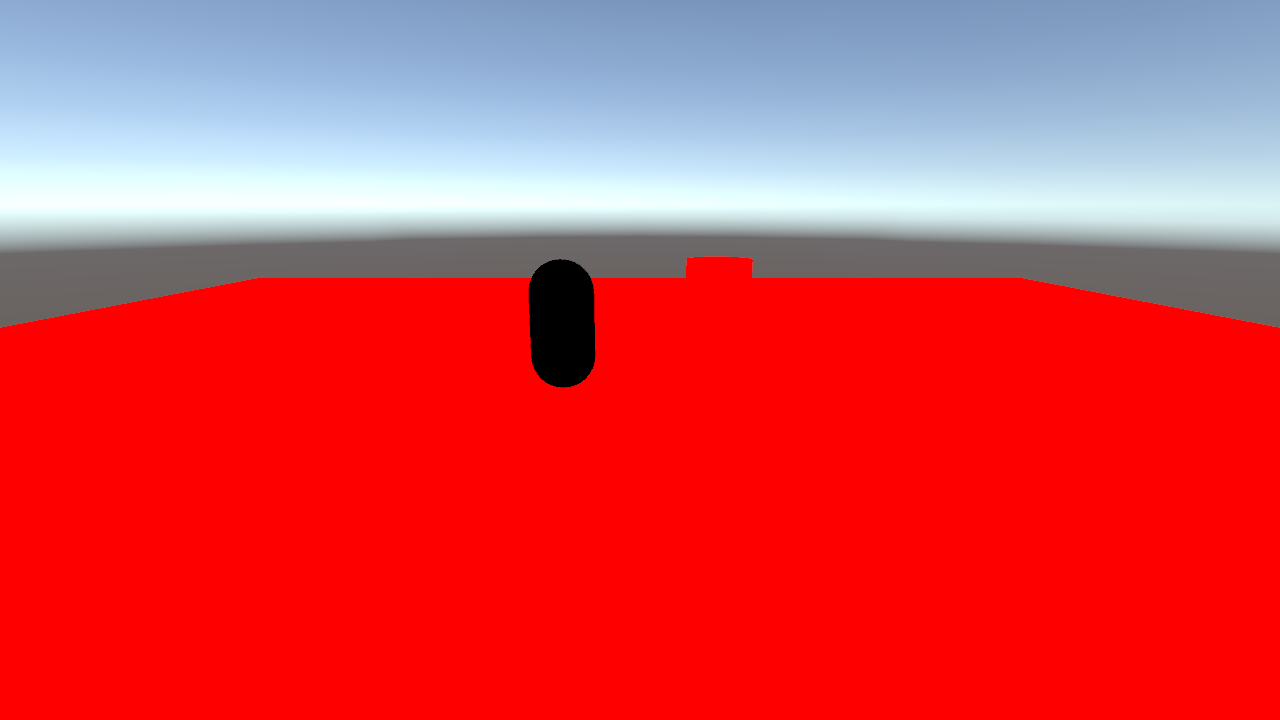
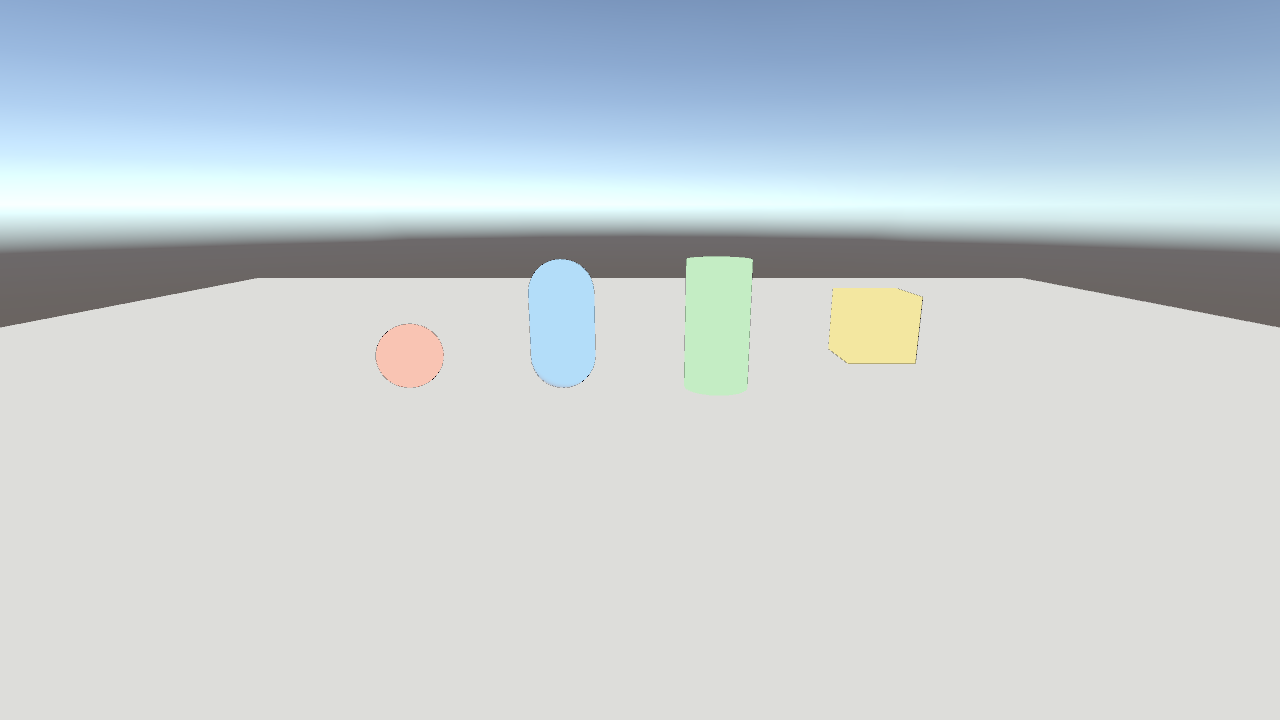
docs: 新增中文学习指南、注释翻译校验脚本与验证截图

diff --git a/Docs/学习指南.md b/Docs/学习指南.md
@@ -1,0 +1,73 @@
+# Toon 学习指南（Unity 2022.3 URP）
+
+本分支把原来的纯 shader 仓库升级成了一个可直接打开的 Unity 工程，**不含任何模型/贴图资产**，只用 Unity 内置图元演示赛璐璐（toon）着色，便于逐条对比参数效果。
+
+- 引擎：`Unity 2022.3.42f1c1`（`ProjectSettings/ProjectVersion.txt` 已锁定）
+- 管线：`URP 14.0.11`（编辑器内置包，无需联网拉取）
+- 上游 shader：[ColinLeung-NiloCat/UnityURPToonLitShaderExample](https://github.com/ColinLeung-NiloCat/UnityURPToonLitShaderExample)，注释已汉化（英文原版在 `master` 分支）
+
+## 打开工程
+
+双击根目录 `open-unity.bat`（直连本机编辑器，不走 Hub），或在 Unity Hub 里 Add Project 选择本目录。
+打开后菜单 `Toon Learning → Setup` 是全套一键脚本。
+
+## 目录
+
+```
+Assets/ToonShader/     toon shader 与 hlsl（注释已汉化，学习主体）
+Assets/Settings/       URP 管线资产 + Universal Renderer
+Assets/Scenes/         ToonDemo.unity（内置图元搭的场景）
+Assets/Materials/      5 份 toon 材质，每份只调不同参数做对照
+Assets/Textures/       White_1x1.png（唯一的"贴图"，见下方注意事项）
+Assets/Scripts/        ToonDemoHint.cs（运行期 IMGUI 说明 + 快捷键）
+Assets/Editor/         ToonProjectBootstrap.cs（一键重建 + 出图验证）
+Docs/screenshots/      toon-demo.png（脚本离线渲染的验证图）
+```
+
+## 场景里每个图元在演示什么
+
+| 物体 | 关键参数 | 现象 |
+| --- | --- | --- |
+| Sphere_HardEdge | `_CelShadeSoftness = 0.02` | 明暗一刀切，典型硬边赛璐璐 |
+| Capsule_SoftEdge | `_CelShadeSoftness = 0.35` | 同一 MidPoint，分界变软 |
+| Cylinder_LitArea | `_CelShadeMidPoint = -0.8` | 亮部面积更大（MidPoint 越负越亮） |
+| Cube_Outline | `_OutlineWidth = 3` | 粗描边（法线外扩实现） |
+| Ground | `_OutlineWidth = 0` | 地面不描边，避免接缝 |
+
+运行后：`A` / `D` 旋转主光源看明暗分界移动，`O` 开关全场景描边做对比。
+
+## 参数速查（材质面板顺序即 shader `Properties` 顺序）
+
+- `_BaseColor` × `_BaseMap` → albedo。本工程用白底图 + 纯色，方便看清光照分层。
+- `_CelShadeMidPoint` / `_CelShadeSoftness` → cel shade 分界位置与软硬（核心两参）。
+- `_MainLightIgnoreCelShade` / `_AdditionalLightIgnoreCelShade` → 是否对某类光跳过 cel 分层。
+- `_ReceiveShadowMappingAmount` / `_ShadowMapColor` → 阴影贴图强度与阴影染色（原神味道的关键）。
+- `_IndirectLightMinColor` / `_IndirectLightMultiplier` / `_DirectLightMultiplier` → 间接光保底与直射光亮度。
+- `_IsFace` → 面部/眼/口跳过 NoL 分层（模型阶段才需要，现留作接口）。
+- `_OutlineWidth` / `_OutlineColor` / `_OutlineZOffset` → 描边粗细、颜色与防穿模偏移。
+- `_UseAlphaClipping` / `_UseEmission` / `_UseOcclusion` → 透明裁剪、自发光、遮蔽贴图开关。
+
+## 五个 Pass
+
+`UniversalForwardOnly`（主输出）· `Outline`（法线外扩反向描边）· `ShadowCaster`（投影）·
+`DepthOnly` · `DepthNormalsOnly`（后处理需要的深度/法线预通道）。
+后四个只在 URP 真正需要时才渲染，改 shader 时不要误删标签。
+
+## 学习路线建议
+
+1. 先只改 `SimpleURPToonLitOutlineExample_LightingEquation.hlsl`：它一个文件几乎决定全部画面风格。
+2. 再读 `..._Shared.hlsl` 理解 CBUFFER / SRP 合批 / 5 pass 的组织方式。
+3. 想加"色阶数量"、"阴影边缘抗锯齿"、"区域阴影染色"等效果时，改上面两个文件即可，不用动主 `.shader`。
+
+## 复现与验证
+
+```
+"C:\Program Files\Unity 2022.3.42f1c1\Editor\Unity.exe" -projectPath <本目录> -batchmode -quit ^
+  -logFile <日志> -executeMethod ToonLearning.Editor.ToonProjectBootstrap.RebuildAndCapture
+```
+日志里 `[ToonDemo] 全黑像素占比` 是自检指标，正常应接近 0%。
+
+### 注意：材质必须绑定 `_BaseMap`
+
+`albedo = tex2D(_BaseMap) * _BaseColor`，脚本创建的材质若 `_BaseMap` 为空槽位，采样结果是黑色，
+整个画面会变全黑（天空正常、几何体全黑）。本工程用 `Assets/Textures/White_1x1.png` 显式兜底。
